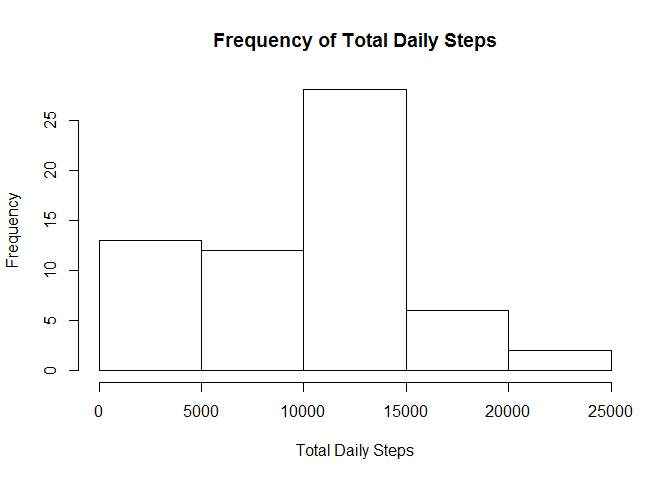
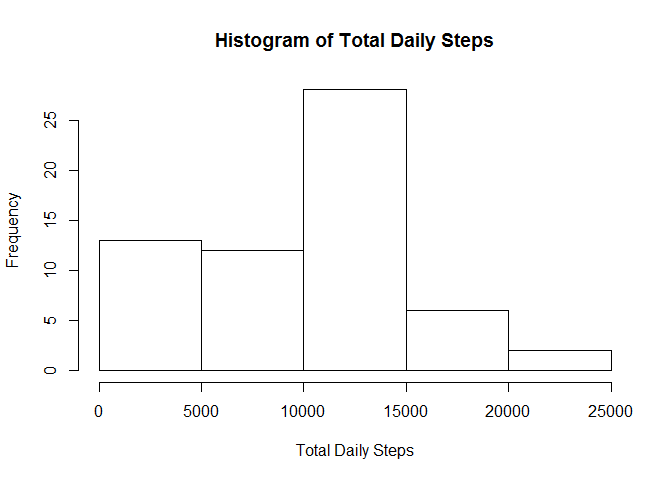
MoreProgress

Changed region(s): [[0.3125, 0.0625, 0.75, 0.125]]

diff --git a/PA1_template.html b/PA1_template.html
@@ -76,22 +76,39 @@ head(activitydata)</code></pre>
 ## 4    NA 2012-10-01       15
 ## 5    NA 2012-10-01       20
 ## 6    NA 2012-10-01       25</code></pre>
+<pre class="r"><code>summary(activitydata)</code></pre>
+<pre><code>##      steps                date          interval     
+##  Min.   :  0.00   2012-10-01:  288   Min.   :   0.0  
+##  1st Qu.:  0.00   2012-10-02:  288   1st Qu.: 588.8  
+##  Median :  0.00   2012-10-03:  288   Median :1177.5  
+##  Mean   : 37.38   2012-10-04:  288   Mean   :1177.5  
+##  3rd Qu.: 12.00   2012-10-05:  288   3rd Qu.:1766.2  
+##  Max.   :806.00   2012-10-06:  288   Max.   :2355.0  
+##  NA's   :2304     (Other)   :15840</code></pre>
 </div>
 <div id="what-is-mean-total-number-of-steps-taken-per-day" class="section level2">
 <h2>What is mean total number of steps taken per day?</h2>
 <p>Here is a histogram for the total number of steps taken each day:</p>
-<pre class="r"><code>totaldailysteps&lt;-tapply(activitydata$steps,activitydata$date,sum,na.rm=T)
-hist(totaldailysteps, xlab = &quot;Total Daily Steps&quot;, main = &quot;Frequency of Total Daily Steps&quot;)</code></pre>
[1 lines of base64/hex data omitted]
+<pre class="r"><code>totaldailysteps&lt;-tapply(activitydata$steps,activitydata$date,sum,na.rm=TRUE)
+hist(totaldailysteps, xlab = &quot;Total Daily Steps&quot;, main = &quot;Histogram of Total Daily Steps&quot;)</code></pre>
[1 lines of base64/hex data omitted]
 <p>Here is the median of the total number of steps taken each day:</p>
-<pre class="r"><code>median(totaldailysteps)</code></pre>
-<pre><code>## [1] 10395</code></pre>
+<pre class="r"><code>allmedians&lt;-tapply(activitydata$steps,activitydata$date,median,na.rm=TRUE)
+summary(allmedians)</code></pre>
+<pre><code>##    Min. 1st Qu.  Median    Mean 3rd Qu.    Max.    NA's 
+##       0       0       0       0       0       0       8</code></pre>
 <p>Here is the mean of the total number of steps take each day:</p>
-<pre class="r"><code>mean(totaldailysteps)</code></pre>
-<pre><code>## [1] 9354.23</code></pre>
+<pre class="r"><code>allmeans&lt;-tapply(activitydata$steps,activitydata$date,mean,na.rm=TRUE)
+summary(allmeans)</code></pre>
+<pre><code>##    Min. 1st Qu.  Median    Mean 3rd Qu.    Max.    NA's 
+##  0.1424 30.7000 37.3800 37.3800 46.1600 73.5900       8</code></pre>
 </div>
 <div id="what-is-the-average-daily-activity-pattern" class="section level2">
 <h2>What is the average daily activity pattern?</h2>
+<p>Fist, we will extract the average number of steps per interval. Then we will plot the daily activity pattern.</p>
+<pre class="r"><code>intervalmean&lt;-tapply(activitydata$steps,activitydata$interval,mean,na.rm=TRUE)
+plot(x=dimnames(intervalmean)[[1]],y=intervalmean,type=&quot;l&quot;, main = &quot;Daily Activity Pattern&quot;, xlab = &quot;Intervals - 5 Minutes&quot;, ylab = &quot;Interval Means&quot;)</code></pre>
[1 lines of base64/hex data omitted]
 </div>
 <div id="imputing-missing-values" class="section level2">
 <h2>Imputing missing values</h2>

diff --git a/PA1_template.md b/PA1_template.md
@@ -21,14 +21,29 @@ head(activitydata)
 ## 6    NA 2012-10-01       25
 ```
 
+```r
+summary(activitydata)
+```
+
+```
+##      steps                date          interval     
+##  Min.   :  0.00   2012-10-01:  288   Min.   :   0.0  
+##  1st Qu.:  0.00   2012-10-02:  288   1st Qu.: 588.8  
+##  Median :  0.00   2012-10-03:  288   Median :1177.5  
+##  Mean   : 37.38   2012-10-04:  288   Mean   :1177.5  
+##  3rd Qu.: 12.00   2012-10-05:  288   3rd Qu.:1766.2  
+##  Max.   :806.00   2012-10-06:  288   Max.   :2355.0  
+##  NA's   :2304     (Other)   :15840
+```
+
 ## What is mean total number of steps taken per day?
 
 Here is a histogram for the total number of steps taken each day:
 
 
 ```r
-totaldailysteps<-tapply(activitydata$steps,activitydata$date,sum,na.rm=T)
-hist(totaldailysteps, xlab = "Total Daily Steps", main = "Frequency of Total Daily Steps")
+totaldailysteps<-tapply(activitydata$steps,activitydata$date,sum,na.rm=TRUE)
+hist(totaldailysteps, xlab = "Total Daily Steps", main = "Histogram of Total Daily Steps")
 ```
 
 ![](PA1_template_files/figure-html/unnamed-chunk-2-1.png) 
@@ -37,25 +52,37 @@ Here is the median of the total number of steps taken each day:
 
 
 ```r
-median(totaldailysteps)
+allmedians<-tapply(activitydata$steps,activitydata$date,median,na.rm=TRUE)
+summary(allmedians)
 ```
 
 ```
-## [1] 10395
+##    Min. 1st Qu.  Median    Mean 3rd Qu.    Max.    NA's 
+##       0       0       0       0       0       0       8
 ```
 
 Here is the mean of the total number of steps take each day:
 
 ```r
-mean(totaldailysteps)
+allmeans<-tapply(activitydata$steps,activitydata$date,mean,na.rm=TRUE)
+summary(allmeans)
 ```
 
 ```
-## [1] 9354.23
+##    Min. 1st Qu.  Median    Mean 3rd Qu.    Max.    NA's 
+##  0.1424 30.7000 37.3800 37.3800 46.1600 73.5900       8
 ```
 ## What is the average daily activity pattern?
 
+Fist, we will extract the average number of steps per interval. Then we will plot the daily activity pattern.
 
+
+```r
+intervalmean<-tapply(activitydata$steps,activitydata$interval,mean,na.rm=TRUE)
+plot(x=dimnames(intervalmean)[[1]],y=intervalmean,type="l", main = "Daily Activity Pattern", xlab = "Intervals - 5 Minutes", ylab = "Interval Means")
+```
+
+![](PA1_template_files/figure-html/unnamed-chunk-5-1.png) 
 
 ## Imputing missing values
 
